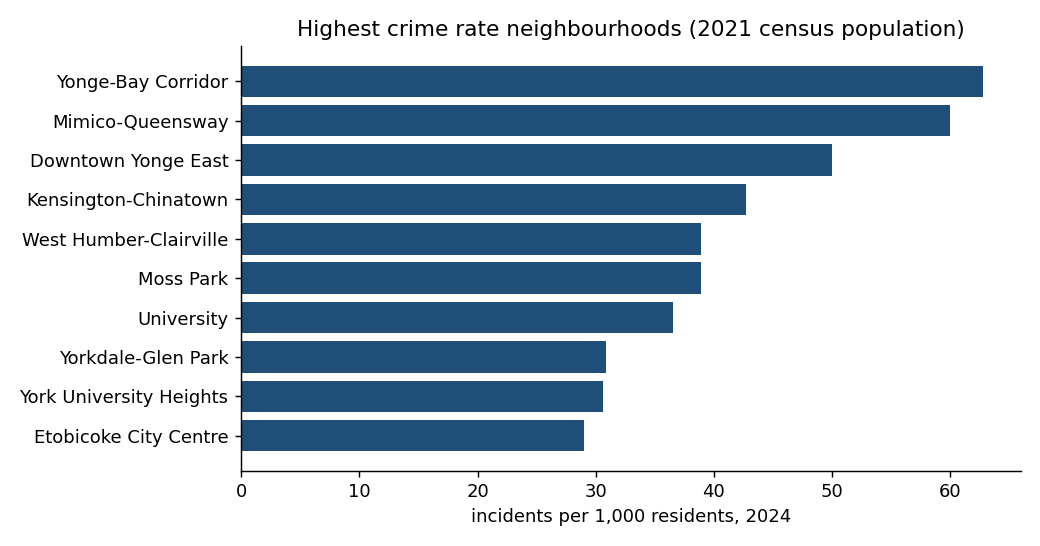
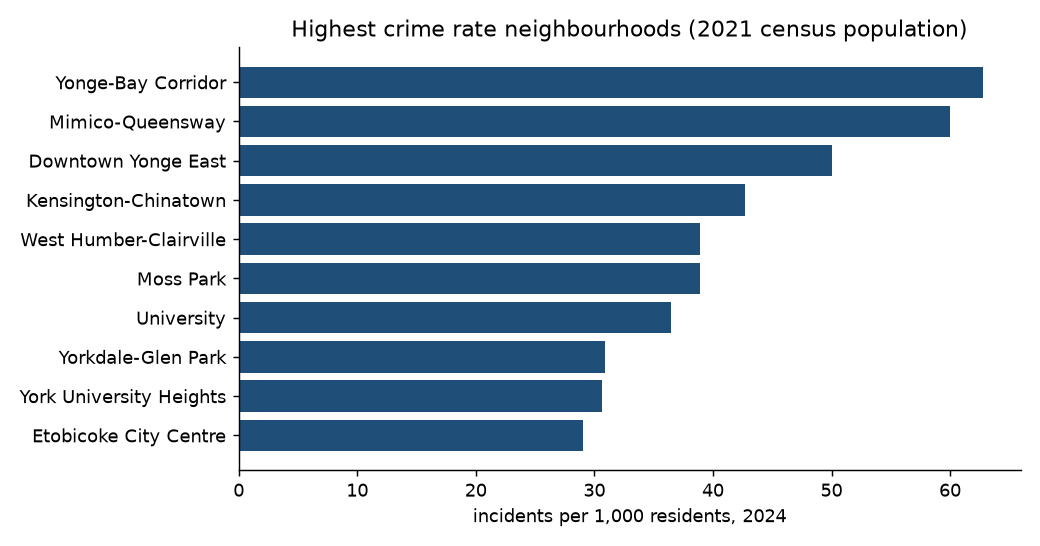
Break ties in ORDER BY so results are the same on every run

Changed region(s): [[0.0, 0.0934, 0.9846, 0.9652], [0.2769, 0.0311, 0.9538, 0.0934]]

diff --git a/results/07_crime_rate_per_1000.md b/results/07_crime_rate_per_1000.md
@@ -14,10 +14,10 @@ with rates as (
     where i.occurrence_year = 2024
     group by 1, 2
 )
-(select 'highest' as bucket, * from rates order by per_1000 desc limit 10)
+(select 'highest' as bucket, * from rates order by per_1000 desc, neighbourhood_name limit 10)
 union all
-(select 'lowest' as bucket, * from rates order by per_1000 asc limit 10)
-order by bucket, per_1000 desc;
+(select 'lowest' as bucket, * from rates order by per_1000 asc, neighbourhood_name limit 10)
+order by bucket, per_1000 desc, neighbourhood_name;
 ```
 
 | bucket | neighbourhood_name | population_2021 | incidents_2024 | per_1000 |
